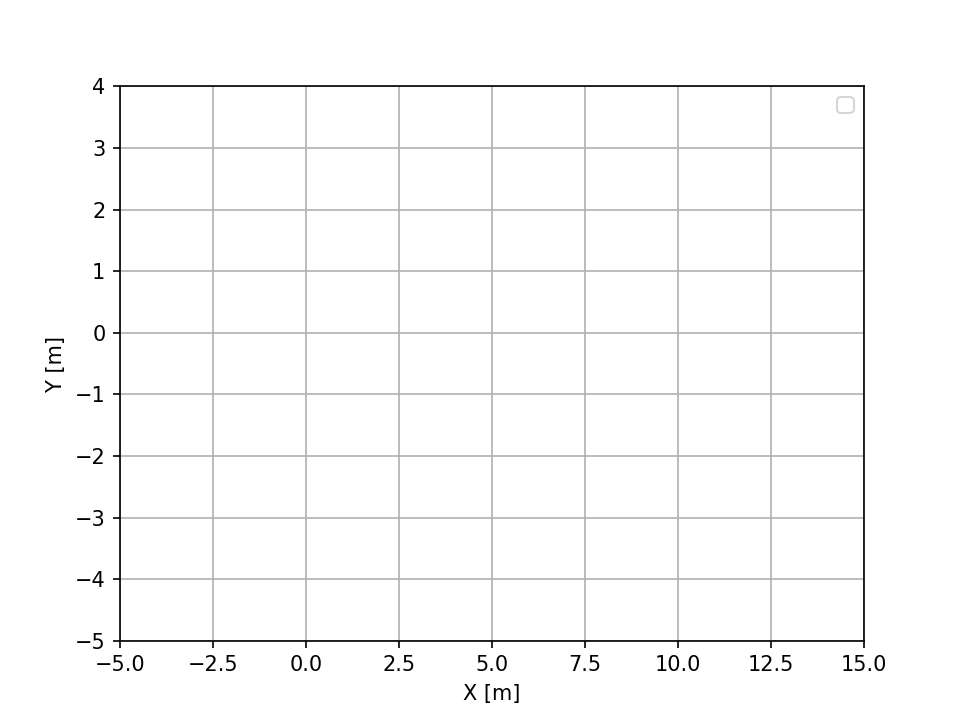
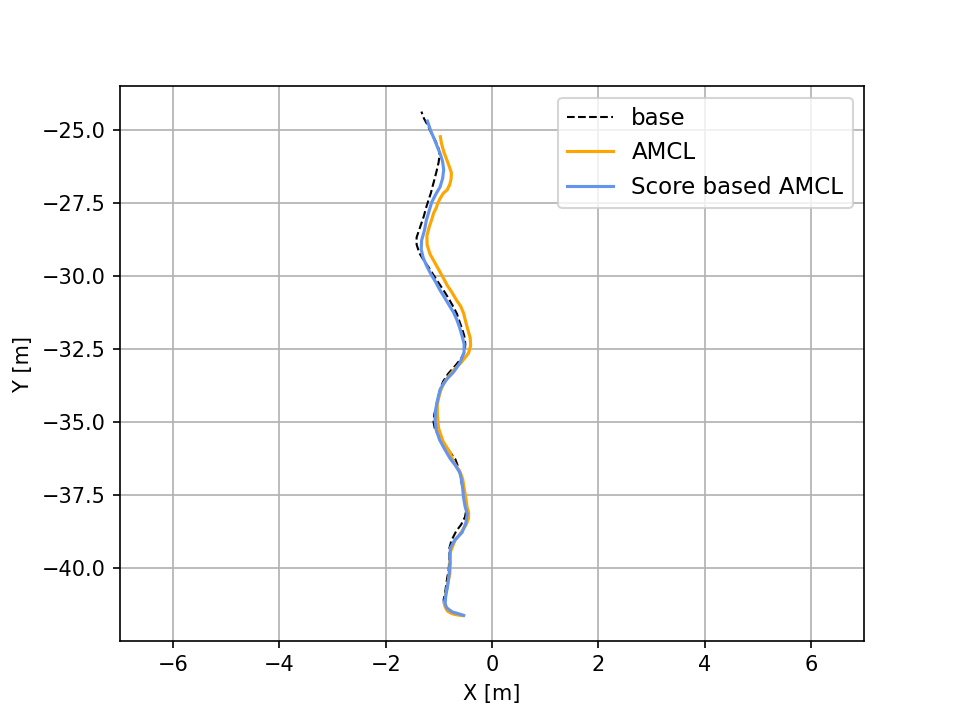
.

diff --git a/localization/localization_plot.py b/localization/localization_plot.py
@@ -50,23 +50,50 @@ def plot_single(csv_path, save_png=None):
 def plot_multiple(csv_paths, save_png=None):
     fig, ax = plt.subplots()
 
-    for p in csv_paths:
+    styles = [
+        {'color': 'black',
+         'linestyle': '--',
+         'linewidth':1.0,
+         'label': 'base'},
+        
+        {'color': 'orange',
+         'linewidth':1.5,
+         'linestyle': '-',
+         'label': 'AMCL'},
+        
+        {'color': 'cornflowerblue',
+         'linewidth':1.5,         
+         'linestyle': '-',
+         'label': 'score based AMCL'}
+    ]
+    for p , style in zip(csv_paths,styles):
         if not os.path.isfile(p):
-            print(f"[WARN] 파일 없음: {p}  → 건너뜀")
+            print(f"[WARN] 파일 없음: {p}")
             continue
         df = read_pose_csv(p)
-        ax.plot(df['x'].to_numpy(), df['y'].to_numpy(),
-                linestyle='--', linewidth=1.0,
-                label=os.path.basename(p))
-
+        ax.plot(
+            df['x'].to_numpy(),
+            df['y'].to_numpy(),
+            **style
+        )
     ax.set_xlabel('X [m]')
     ax.set_ylabel('Y [m]')
 
     # ax.set_aspect('equal', adjustable='datalim')
 
-    ax.set_xlim(0, 25)
-    #ax.set_ylim(-5,4)
-    ax.legend()
+    #ax.set_xlim(5, 20.0)
+    ax.set_ylim(-5,5)
+    labels = ['base', 'AMCL', 'Score based AMCL']
+    ax.legend(
+        labels,
+        fontsize = 11,
+        #title_fontsize = 13,
+        loc = 'best'
+        #frameon = True,
+        #shadow = True
+    )
+    #leg.get_frame().set_alpha(0.5)
+    
     ax.grid(True)
 
     if save_png:
@@ -78,21 +105,21 @@ def plot_multiple(csv_paths, save_png=None):
 
 if __name__ == '__main__':
     single_csv = os.path.expanduser(
-        '~/path/localization/amcl_logs/spot1/amcl_pose_spot1_base.csv')
+        '~/score_based_localization/localization/amcl_logs/spot4/amcl_pose_spot4_base.csv')
     plot_single(
         single_csv,
-        save_png=os.path.expanduser('~/path/localization/amcl_logs/spot1/base_spot1.png')
+        save_png=os.path.expanduser('~/score_based_localization/localization/amcl_logs/spot4/base_spot4.png')
     )
 
     runs = [
         os.path.expanduser(
-            '~/path/localization/amcl_logs/spot1/amcl_pose_spot1_base.csv'),
+            '~/score_based_localization/localization/amcl_logs/spot4/amcl_pose_spot4_base.csv'),
         os.path.expanduser(
-            '~/path/localization/amcl_logs/spot1/amcl_pose_spot1_exp2.csv'),
+            '~/score_based_localization/localization/amcl_logs/spot4/amcl_pose_spot4_exp1.csv'),
         os.path.expanduser(
-            '~/path/localization/amcl_logs/spot1/amcl_pose_spot1_score_exp1.csv')
+            '~/score_based_localization/localization/amcl_logs/spot4/amcl_pose_spot4_score_exp1.csv')
     ]
     plot_multiple(
         runs,
-        save_png=os.path.expanduser('~/path/localization/amcl_logs/spot1/compare_score.png')
+        save_png=os.path.expanduser('~/score_based_localization/localization/amcl_logs/spot4/compare_score.png')
     )
